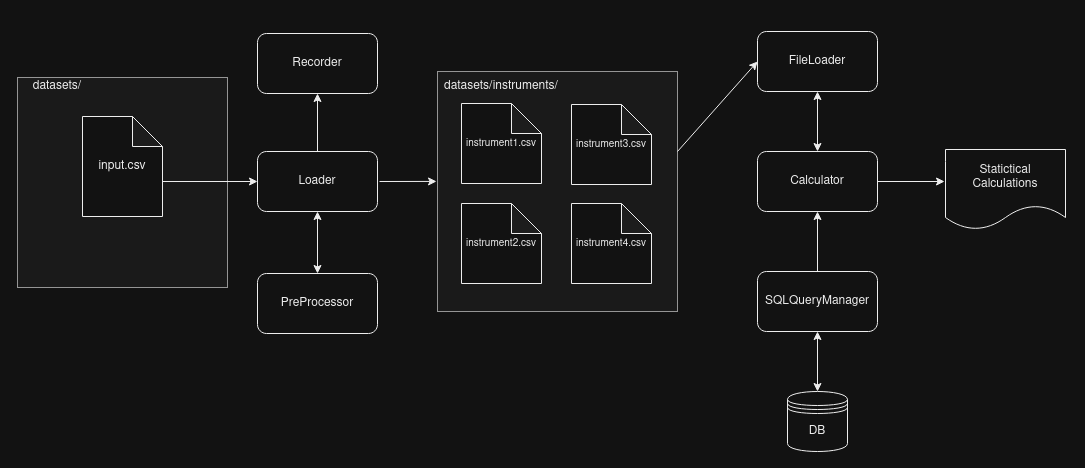
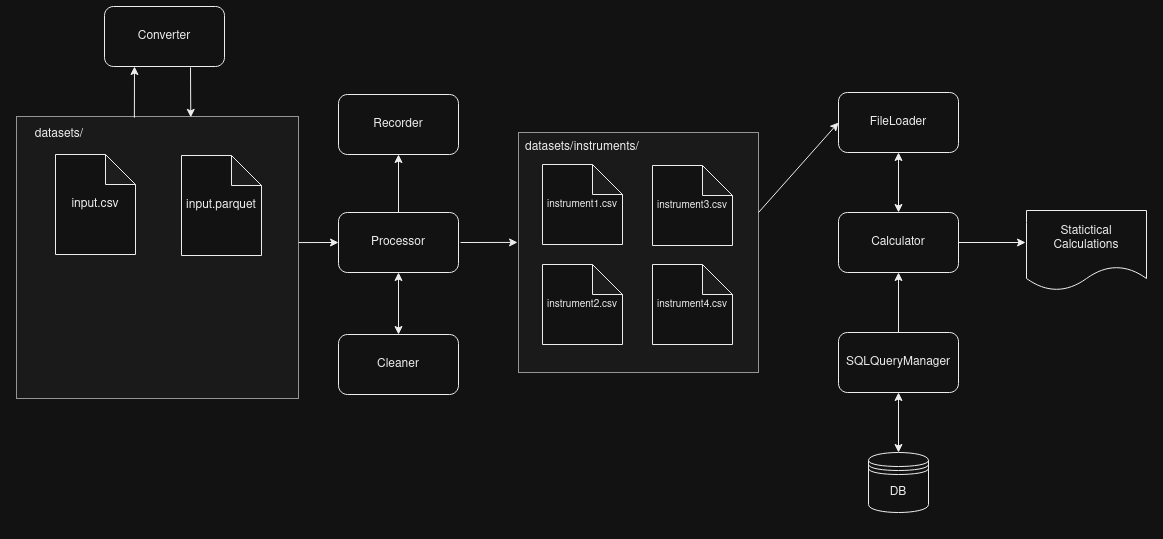
docs: update documentation

diff --git a/docs/v1.1.0.md b/docs/v1.1.0.md
@@ -1,0 +1,41 @@
+# v1.1.0
+Conversion to parquet format before process the original dataset.
+It decreases the load time of the original data to 7%.
+
+Different alternatives were tested and the best option was convert the original file to parquet format and keeps the small instrument files in a csv format.
+
+## Profiling information
+Instruments = 100
+Records =  694.000
+LF: Total time to load the original file
+ALSF: Average of time to load small instrument files.
+
+Alternative 1:
+Original scenary, all files have csv format.
+| Executions |   LF   |  MLSF  |
+|------------|--------|--------|
+| 1          | 206.7  | 0.0091 |
+| 2          | 198.36 | 0.0065 |
+| 3          | 203.55 | 0.018  |
+| 4          | 209.16 | 0.014  |
+| AVG        | 204.44 | 0.0119 |
+
+Alternative 2:
+Convert both, original file and small instrument files to parquet format.
+| Executions |   LF   |   MLSF  |
+|------------|--------|---------|
+| 1          | 28.29  | 0.0124  |
+| 2          | 30.42  | 0.0117  |
+| 3          | 27.62  | 0.0111  |
+| 4          | 17.45  | 0.0141  |
+| AVG        | 25.945 | 0.0123  |
+
+Alternative 3:
+Convert original file to parquet format and keeps small instrument files in csv format.
+| Executions |   LF    |   MLSF  |
+|------------|---------|---------|
+| 1          | 13.37   | 0.0109  |
+| 2          | 14.03   | 0.0085  |
+| 3          | 14.14   | 0.0078  |
+| 4          | 13.99   | 0.0088  |
+| AVG        | 13.8825 | 0.009   |

diff --git a/README.md b/README.md
@@ -65,3 +65,8 @@ sudo apt install sqlite3
 ```
     python3 -m unittest discover
 ```
+
+## Changelog
+| Date    | Code | Version | Description | Link |
+| -------- | ------- | -------- | ------- | -------
+| 15.01.24  | 01    | v1.1.0  | Conversion to parquet format before process the original dataset | [Link](docs/v1.1.0.md)
